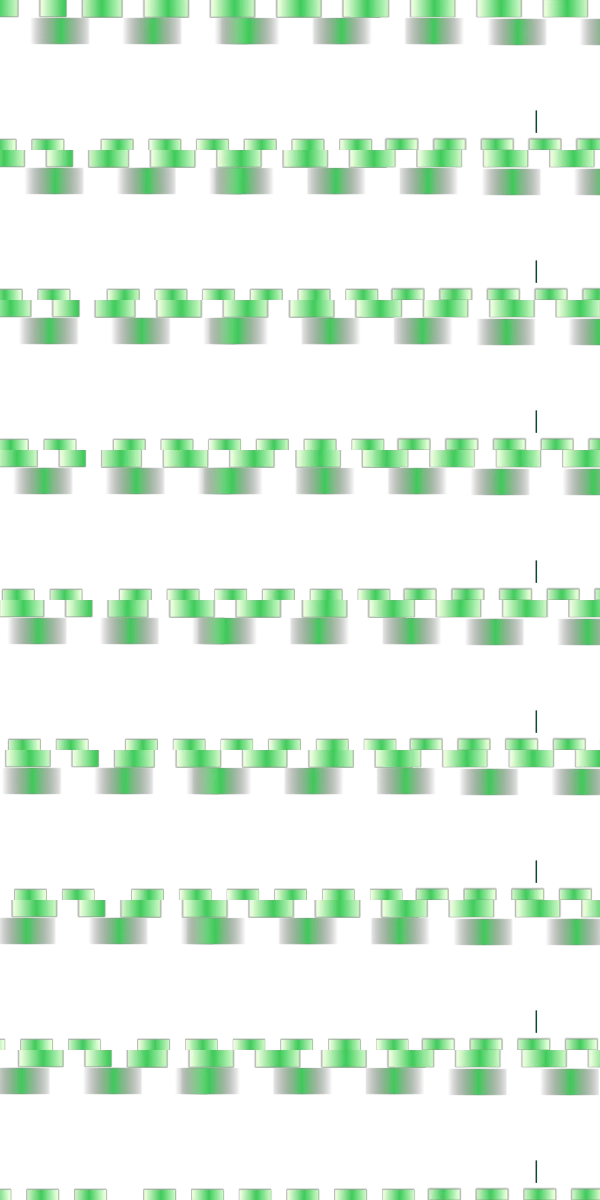
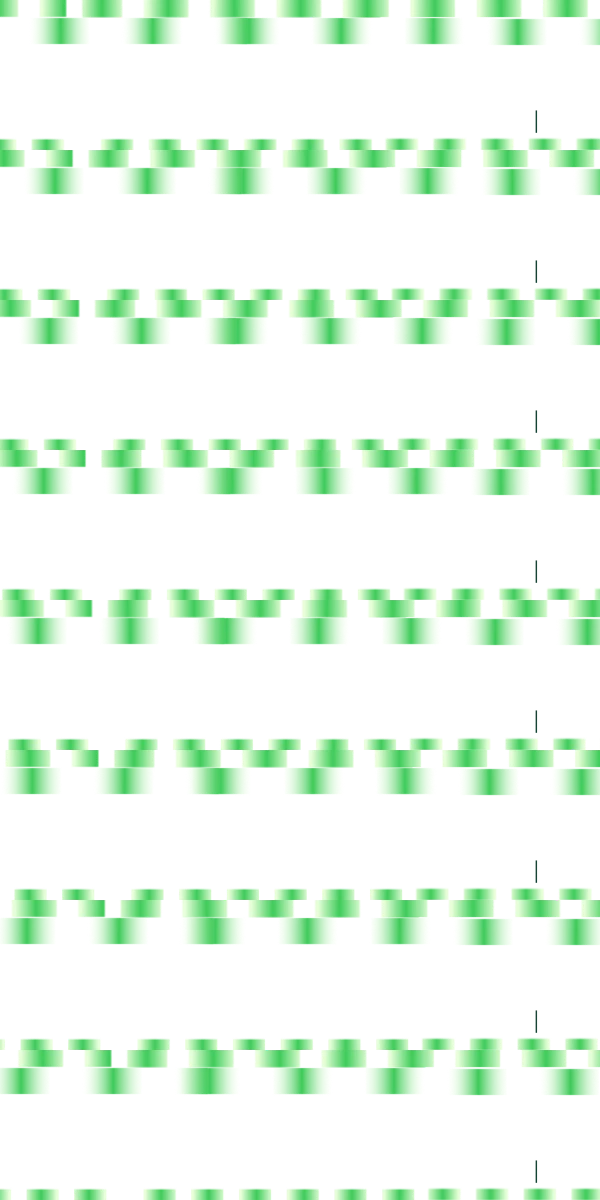
Signature: un-premultiply the AE alpha layers, fade content with the pattern reveal
- The ProRes 4444 layers carry premultiplied colour; browsers expect straight alpha, so the
  semi-transparent stripe shadows rendered grey. Build now divides RGB by alpha (numpy).
- Option B: name, details and logos fade out as the pattern washes over and back in as it
  clears, driven by per-frame overlay coverage written into the manifest (matches the comp).
- Text metrics condensed to match the designer's frames; sprite URLs carry the build stamp
  and page assets carry a version query so updates are not served from cache.

diff --git a/js/signature.js b/js/signature.js
@@ -22,7 +22,7 @@
       one:   { x: 544, y: 114, w: 40 },
     },
     b: {
-      label: 'Mint', bg: '#e7ffd9',
+      label: 'Mint', bg: '#e7ffd9', contentFollowsOverlay: true,   // name, details and logos fade out while the pattern washes over, back in as it clears
       name:  { x: 300, y: 74,   size: 28, weight: 600, color: '#57b959', align: 'center', maxW: 420 },
       title: { x: 300, y: 88.5, size: 15, weight: 500, color: '#57b959', align: 'center', maxW: 420 },
       email: { x: 60,  y: 134,  size: 16, weight: 400, color: '#57b959', align: 'left',   maxW: 345 },
@@ -54,18 +54,22 @@
   }
   async function loadSprites(key) {
     if (assets.sprites[key]) return assets.sprites[key];
-    const manifest = await fetch(`assets/signature/${key}/manifest.json`).then((r) => r.json());
+    const manifest = await fetch(`assets/signature/${key}/manifest.json`, { cache: 'no-cache' }).then((r) => r.json());
+    const v = manifest.built ? `?v=${manifest.built}` : '';
     const strips = await Promise.all(Array.from({ length: manifest.strips }, (_, i) =>
-      loadImage(`assets/signature/${key}/strip-${String(i).padStart(2, '0')}.${manifest.ext || 'png'}`)));
+      loadImage(`assets/signature/${key}/strip-${String(i).padStart(2, '0')}.${manifest.ext || 'png'}${v}`)));
     assets.sprites[key] = { manifest, strips };
     return assets.sprites[key];
   }
 
   // ---------------------------------------------------------------- drawing
+  // The designer's type is set tighter than browser Poppins: measured against the reference frames,
+  // matching widths need the size at 96% and the glyphs condensed to 95%.
+  const SIZE_K = 0.96, X_K = 0.95;
   function fitFont(g, text, spec) {
-    let size = spec.size;
+    let size = spec.size * SIZE_K;
     g.font = `${spec.weight} ${size}px Poppins, system-ui, sans-serif`;
-    const w = g.measureText(text).width;
+    const w = g.measureText(text).width * X_K;
     if (w > spec.maxW) { size = Math.max(8, size * spec.maxW / w); g.font = `${spec.weight} ${size}px Poppins, system-ui, sans-serif`; }
     return size;
   }
@@ -74,13 +78,17 @@
     fitFont(g, text, spec);
     g.textAlign = spec.align; g.textBaseline = 'alphabetic';
     g.fillStyle = spec.color;
-    g.globalAlpha = placeholder ? 0.45 : 1;
-    g.fillText(text, spec.x, spec.y);
-    g.globalAlpha = 1;
+    const outer = g.globalAlpha;
+    g.globalAlpha = outer * (placeholder ? 0.45 : 1);
+    g.save();
+    g.translate(spec.x, spec.y);
+    g.scale(X_K, 1);
+    g.fillText(text, 0, 0);
+    g.restore();
+    g.globalAlpha = outer;
   }
-  function drawBase(g, design, fields, usePlaceholders) {
+  function drawContent(g, design, fields, usePlaceholders) {
     const d = DESIGNS[design];
-    g.fillStyle = d.bg; g.fillRect(0, 0, W, H);
     for (const k of ['name', 'title', 'email', 'phone']) {
       const v = (fields[k] || '').trim();
       if (v) drawText(g, v, d[k], false);
@@ -98,11 +106,27 @@
     const row = i % manifest.framesPerStrip;
     if (strip) g.drawImage(strip, 0, row * H, W, H, 0, 0, W, H);
   }
+  // opacity of the text and logos for a given animation frame (1 = fully visible)
+  function contentAlpha(design, sprite, frame) {
+    const d = DESIGNS[design];
+    if (!d.contentFollowsOverlay || !sprite || !sprite.manifest.coverage) return 1;
+    const cov = sprite.manifest.coverage;
+    const c = cov[((frame % cov.length) + cov.length) % cov.length] || 0;
+    return Math.pow(1 - c, 0.8);           // fades slightly faster than the pattern, as in the designer's comp
+  }
   function drawFrame(g, scale, frame, usePlaceholders) {
+    const d = DESIGNS[state.design];
+    const sprite = assets.sprites[state.design];
     g.setTransform(scale, 0, 0, scale, 0, 0);
     g.imageSmoothingEnabled = true; g.imageSmoothingQuality = 'high';
-    drawBase(g, state.design, state.fields, usePlaceholders);
-    drawOverlay(g, assets.sprites[state.design], frame);
+    g.fillStyle = d.bg; g.fillRect(0, 0, W, H);
+    const a = contentAlpha(state.design, sprite, frame);
+    if (a > 0.002) {
+      g.save(); g.globalAlpha = a;
+      drawContent(g, state.design, state.fields, usePlaceholders);
+      g.restore();
+    }
+    drawOverlay(g, sprite, frame);
   }
 
   // ---------------------------------------------------------------- preview loop

diff --git a/index.html b/index.html
@@ -11,7 +11,7 @@
   <meta property="og:type" content="website">
   <link rel="icon" href="assets/se-mark.svg" type="image/svg+xml">
   <link rel="preload" as="image" href="assets/frames/frame-bg-lossless.webp" type="image/webp">
-  <link rel="stylesheet" href="css/style.css">
+  <link rel="stylesheet" href="css/style.css?v=20260904e">
 </head>
 <body>
 
@@ -254,8 +254,8 @@ Schneider Electric</pre>
 
   <div id="toast" class="toast" role="status" aria-live="polite"></div>
 
-  <script src="js/app.js" defer></script>
-  <script src="js/signature.js" defer></script>
-  <script src="js/toolkit.js" defer></script>
+  <script src="js/app.js?v=20260904e" defer></script>
+  <script src="js/signature.js?v=20260904e" defer></script>
+  <script src="js/toolkit.js?v=20260904e" defer></script>
 </body>
 </html>

diff --git a/tools/build_signature_assets.py b/tools/build_signature_assets.py
@@ -14,6 +14,7 @@ Outputs (assets/signature/):
   a/manifest.json, b/manifest.json  frame count, fps, strip layout
   se-wordmark-dark.png, se-wordmark-green.png, oyw-one.png   logos downscaled for the web
 
+Colour is un-premultiplied (AE exports matted/premultiplied alpha; canvas drawImage expects straight alpha).
 The animation is resampled to FPS and, for option B, re-cut so frame 0 is the clean (pattern-free) state:
 mail clients that do not animate GIFs (Outlook desktop) show the first frame only.
 """
@@ -38,12 +39,24 @@ OPTIONS = {
     "a": ("option-a-alpha.mov", 24, 0, 12),   # stripes never return to frame 0 exactly -> 1 s crossfade closes the loop
     "b": ("option-b-alpha.mov", 60, 76, 0),   # source already loops; re-cut so frame 0 is the clean state
 }
-STRIP_FORMAT = ("webp", {"quality": 92, "alpha_quality": 100, "method": 6})
+STRIP_FORMAT = ("webp", {"quality": 92, "alpha_quality": 100, "method": 4})
 LOGOS = {
     "se-wordmark-dark.png": 1200,
     "se-wordmark-green.png": 1200,
     "oyw-one.png": 700,
 }
+
+
+def unpremultiply(im):
+    """AE writes ProRes 4444 with premultiplied colour; browsers expect straight alpha. Divide RGB by alpha."""
+    import numpy as np
+    arr = np.asarray(im.convert("RGBA")).astype(np.float32)
+    a = arr[:, :, 3:4]
+    rgb = arr[:, :, :3]
+    scale = np.where(a > 0, 255.0 / np.maximum(a, 1.0), 1.0)
+    rgb = np.clip(rgb * scale, 0, 255)
+    out = np.concatenate([rgb, a], axis=2).astype(np.uint8)
+    return Image.fromarray(out, "RGBA")
 
 
 def extract_frames(movie, tmp):
@@ -69,7 +82,7 @@ def build_option(key, movie, src_fps, start, xfade):
         seam = sum(abs(x - y) for x, y in zip(a.getdata(), b.getdata())) / (150 * 38)
         imgs = []
         for fi in picked:
-            fr = Image.open(frames[fi]).convert("RGBA")
+            fr = unpremultiply(Image.open(frames[fi]))
             if fr.size != (W, H):
                 fr = fr.resize((W, H), Image.LANCZOS)
             imgs.append(fr)
@@ -90,7 +103,13 @@ def build_option(key, movie, src_fps, start, xfade):
             strip.save(os.path.join(out_dir, "strip-%02d.%s" % (strips, ext)), **save_kw)
             strips += 1
         picked = imgs
+        from PIL import ImageStat
+        cov = [ImageStat.Stat(im.getchannel("A")).mean[0] for im in imgs]
+        cmax = max(cov) or 1.0
+        coverage = [round(c / cmax, 3) for c in cov]
+        import time
         manifest = {"width": W, "height": H, "fps": FPS, "frames": len(picked), "framesPerStrip": FRAMES_PER_STRIP,
+                    "coverage": coverage, "built": int(time.time()),
                     "strips": strips, "ext": ext, "crossfadeFrames": xfade, "sourceFrames": n, "sourceFps": src_fps, "loopStartSourceFrame": start,
                     "seamMeanAlphaDiff": round(seam, 2)}
         with open(os.path.join(out_dir, "manifest.json"), "w") as f:
